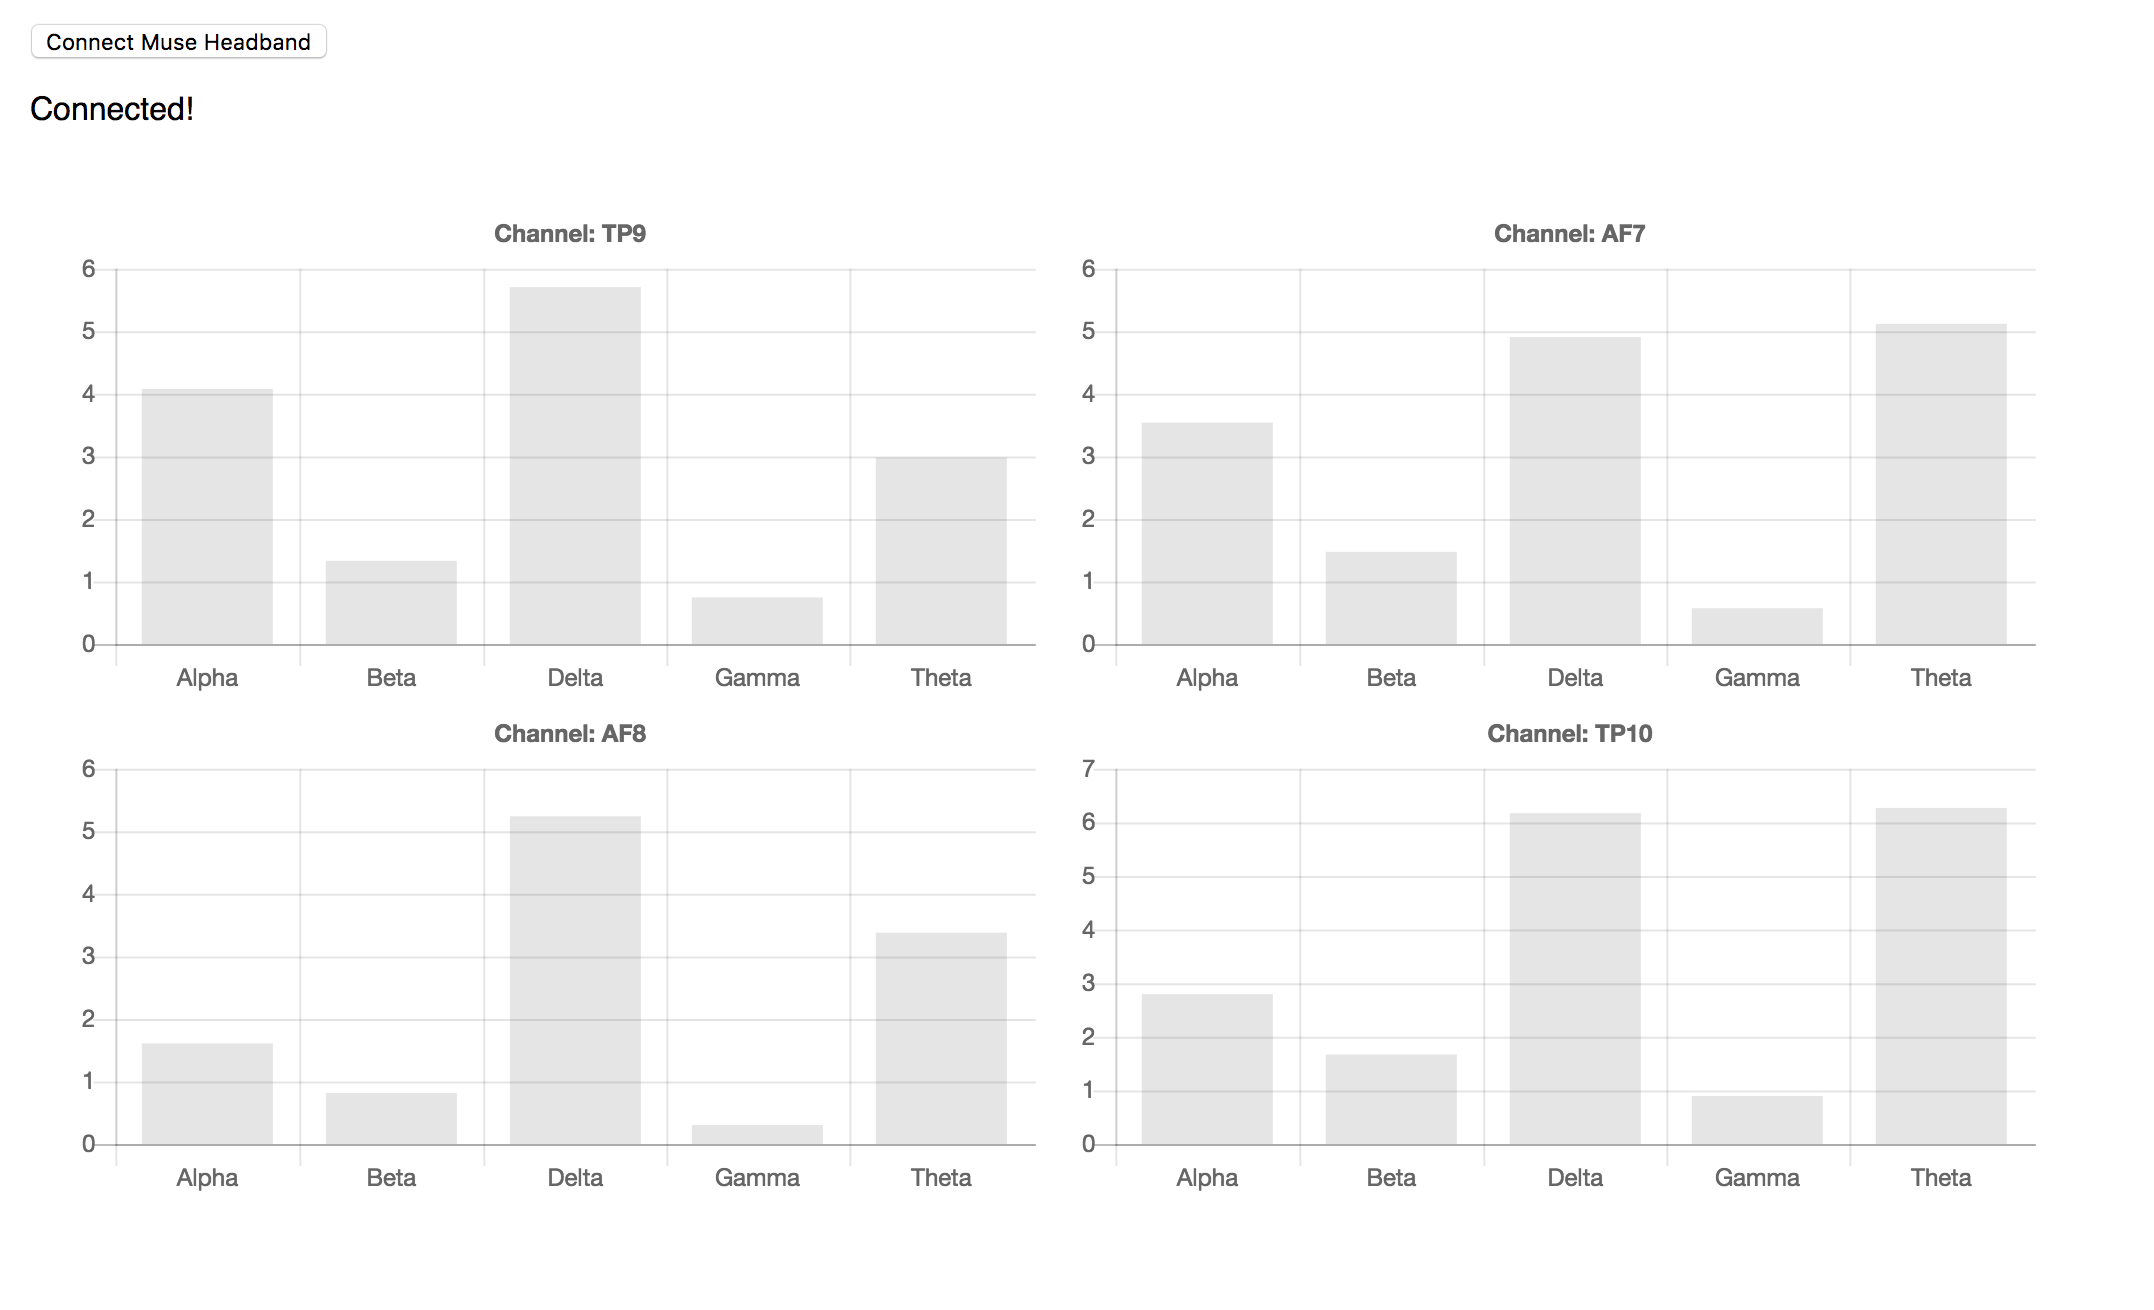
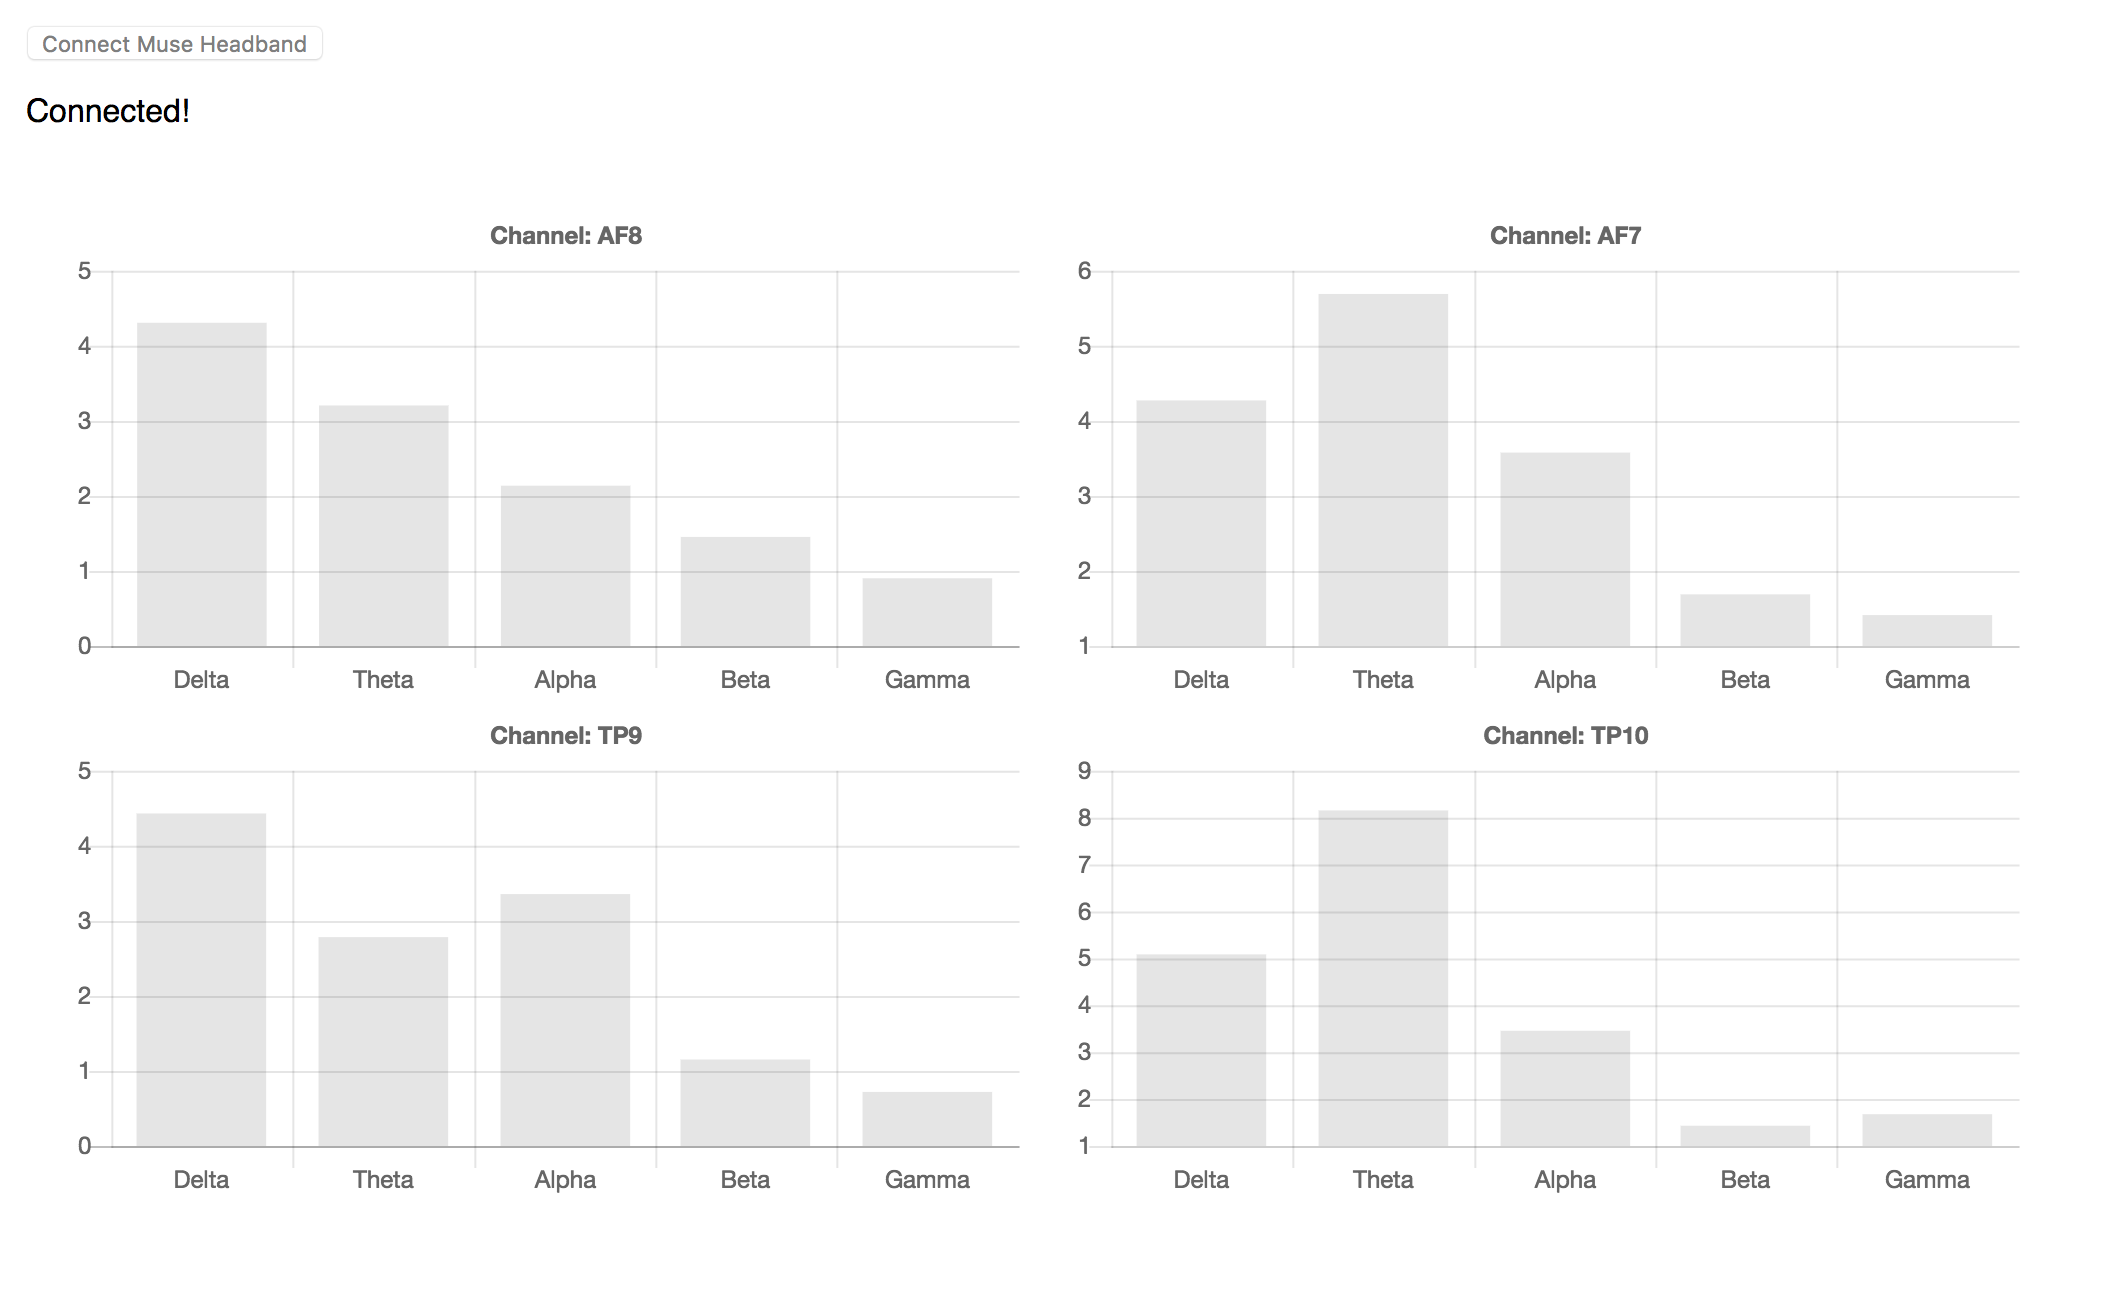
Fixes to UI

diff --git a/src/MuseFFT.js b/src/MuseFFT.js
@@ -17,8 +17,9 @@ export class MuseFFT extends Component {
 
   state = {
     status: 'Disconnected',
+    button_disabled: false,
     ch0: {
-	     labels: ["Alpha", "Beta", "Delta", "Gamma", "Theta"],
+	     labels: ["Delta", "Theta", "Alpha", "Beta", "Gamma"],
 	     datasets: [
     		{
     			fillColor: "rgba(220,220,220,0.2)",
@@ -32,7 +33,7 @@ export class MuseFFT extends Component {
       ]
     },
     ch1: {
-       labels: ["Alpha", "Beta", "Delta", "Gamma", "Theta"],
+       labels: ["Delta", "Theta", "Alpha", "Beta", "Gamma"],
        datasets: [
         {
           fillColor: "rgba(220,220,220,0.2)",
@@ -46,7 +47,7 @@ export class MuseFFT extends Component {
       ]
     },
     ch2: {
-       labels: ["Alpha", "Beta", "Delta", "Gamma", "Theta"],
+       labels: ["Delta", "Theta", "Alpha", "Beta", "Gamma"],
        datasets: [
         {
           fillColor: "rgba(220,220,220,0.2)",
@@ -60,7 +61,7 @@ export class MuseFFT extends Component {
       ]
     },
     ch3: {
-       labels: ["Alpha", "Beta", "Delta", "Gamma", "Theta"],
+       labels: ["Delta", "Theta", "Alpha", "Beta", "Gamma"],
        datasets: [
         {
           fillColor: "rgba(220,220,220,0.2)",
@@ -78,13 +79,13 @@ export class MuseFFT extends Component {
   render() {
     return(
         <div className='MuseFFT'>
-          <button onClick={this.connect}>Connect Muse Headband</button>
+          <button disabled={this.state.button_disabled} onClick={this.connect}>Connect Muse Headband</button>
           <p>{this.state.status}</p>
           <div style={chartSectionStyle}>
-            <Bar data={this.state.ch0} options={{title: {display: true, text: 'Channel: ' + channelNames[0]}, responsive: false, legend: {display: false}}} width={500} height={250}/>
-            <Bar data={this.state.ch1} options={{title: {display: true, text: 'Channel: ' + channelNames[1]}, responsive: false, legend: {display: false}}} width={500} height={250}/>
-            <Bar data={this.state.ch2} options={{title: {display: true, text: 'Channel: ' + channelNames[2]}, responsive: false, legend: {display: false}}} width={500} height={250}/>
-            <Bar data={this.state.ch3} options={{title: {display: true, text: 'Channel: ' + channelNames[3]}, responsive: false, legend: {display: false}}} width={500} height={250}/>
+            <Bar data={this.state.ch2} options={{title: {display: true, text: 'Channel: ' + channelNames[2]}, responsive: false, tooltips: {enabled: false}, legend: {display: false}}} width={500} height={250}/>
+            <Bar data={this.state.ch1} options={{title: {display: true, text: 'Channel: ' + channelNames[1]}, responsive: false, tooltips: {enabled: false}, legend: {display: false}}} width={500} height={250}/>
+            <Bar data={this.state.ch0} options={{title: {display: true, text: 'Channel: ' + channelNames[0]}, responsive: false, tooltips: {enabled: false}, legend: {display: false}}} width={500} height={250}/>
+            <Bar data={this.state.ch3} options={{title: {display: true, text: 'Channel: ' + channelNames[3]}, responsive: false, tooltips: {enabled: false}, legend: {display: false}}} width={500} height={250}/>
           </div>
         </div>
     );
@@ -95,7 +96,10 @@ export class MuseFFT extends Component {
     const client = new MuseClient();
 
     client.connectionStatus.subscribe((status) => {
-      this.setState({status: status ? 'Connected!' : 'Disconnected'});
+      this.setState({
+        status: status ? 'Connected!' : 'Disconnected',
+        button_disabled: status
+      });
       console.log(status ? 'Connected!' : 'Disconnected');
     });
 
@@ -112,10 +116,10 @@ export class MuseFFT extends Component {
         (data) => {
           this.setState(state => {
 
-            state.ch0.datasets[0].data = [data.alpha[0], data.beta[0], data.delta[0], data.gamma[0], data.theta[0]];
-            state.ch1.datasets[0].data = [data.alpha[1], data.beta[1], data.delta[1], data.gamma[1], data.theta[1]];
-            state.ch2.datasets[0].data = [data.alpha[2], data.beta[2], data.delta[2], data.gamma[2], data.theta[2]];
-            state.ch3.datasets[0].data = [data.alpha[3], data.beta[3], data.delta[3], data.gamma[3], data.theta[3]];
+            state.ch0.datasets[0].data = [data.delta[0], data.theta[0], data.alpha[0], data.beta[0], data.gamma[0]];
+            state.ch1.datasets[0].data = [data.delta[1], data.theta[1], data.alpha[1], data.beta[1], data.gamma[1]];
+            state.ch2.datasets[0].data = [data.delta[2], data.theta[2], data.alpha[2], data.beta[2], data.gamma[2]];
+            state.ch3.datasets[0].data = [data.delta[3], data.theta[3], data.alpha[3], data.beta[3], data.gamma[3]];
 
             return({
               ch0: state.ch0,
